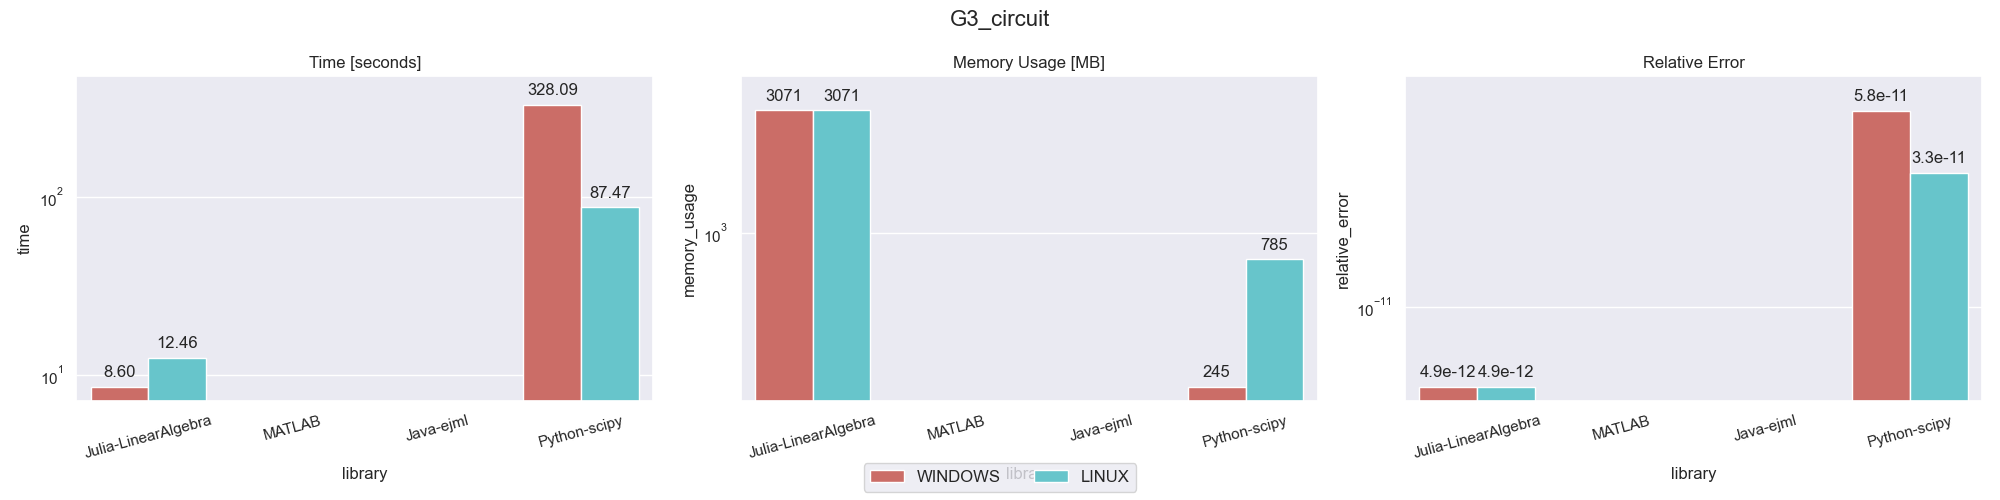
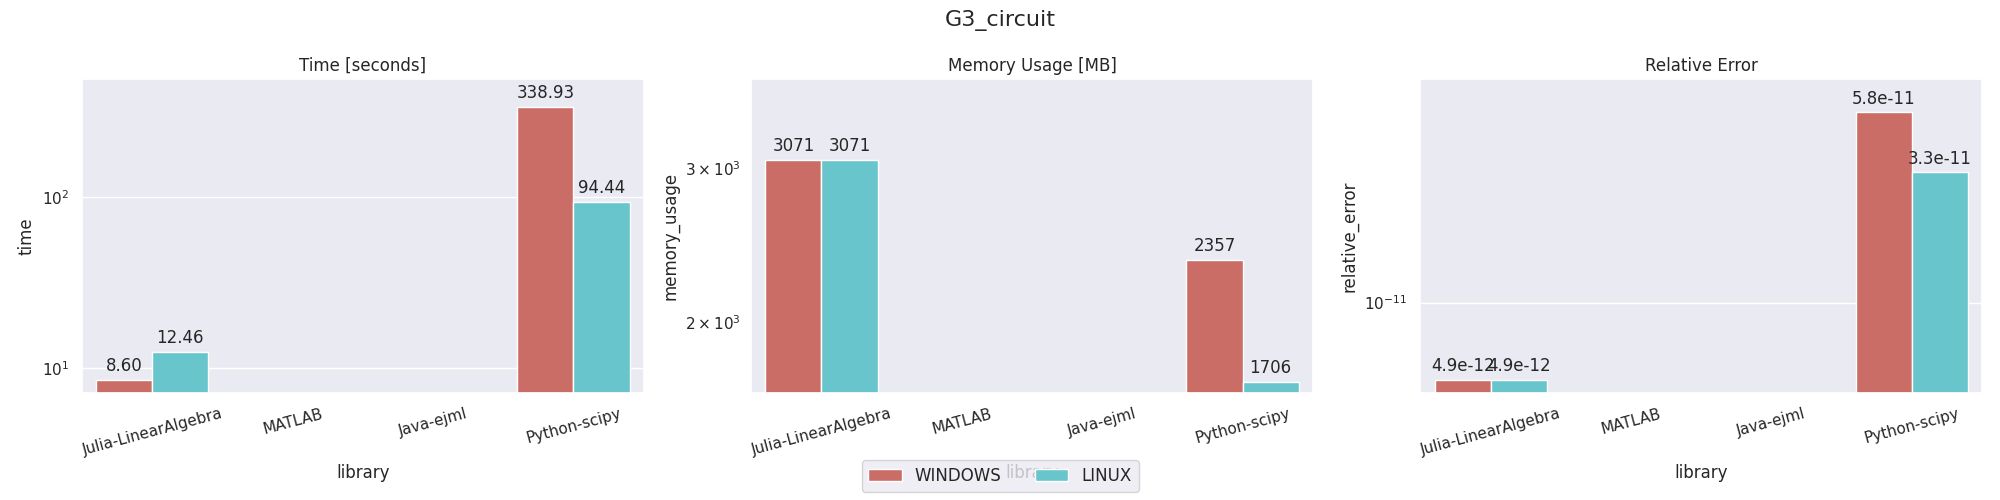
Update plots and reports, update results in report

diff --git a/report/report.tex b/report/report.tex
@@ -382,23 +382,23 @@ introdotti miglioramenti sulle altre matrici
 \textbf{relative\_error} &
 \textbf{platform} &
 \textbf{library\_version} \\ \midrule
-ex15.mat            & 6867   & 98671   & 0.05   & 4.19
+ex15.mat            & 6867   & 98671   & 0.05   & 4
 & 8.21380E-07 & LINUX   & 9.14.0.2254940 (R2023a) Update 2 \\
-ex15.mat            & 6867   & 98671   & 0.06   & 4.15
+ex15.mat            & 6867   & 98671   & 0.06   & 4
 & 8.21380E-07 & WINDOWS & 9.13.0.2193358 (R2022b) Update 5 \\
-shallow\_water1.mat & 81920  & 327680  & 1.72   & 368.87
+shallow\_water1.mat & 81920  & 327680  & 1.72   & 368
 & 3.07689E-16 & LINUX   & 9.14.0.2254940 (R2023a) Update 2 \\
-shallow\_water1.mat & 81920  & 327680  & 2.09   & 368.93
+shallow\_water1.mat & 81920  & 327680  & 2.09   & 368
 & 3.07689E-16 & WINDOWS & 9.13.0.2193358 (R2022b) Update 5 \\
-cfd1.mat            & 70656  & 1825580 & 3.86   & 1286.22
+cfd1.mat            & 70656  & 1825580 & 3.86   & 1286
 & 6.34538E-13 & LINUX   & 9.14.0.2254940 (R2023a) Update 2 \\
-cfd1.mat            & 70656  & 1825580 & 6.54   & 1302.86
+cfd1.mat            & 70656  & 1825580 & 6.54   & 1302
 & 6.34538E-13 & WINDOWS & 9.13.0.2193358 (R2022b) Update 5 \\
-cfd2.mat            & 123440 & 3085406 & 6.55   & 18446744
+cfd2.mat            & 123440 & 3085406 & 6.55   & 18446744071912
 & 7.98365E-13 & LINUX   & 9.14.0.2254940 (R2023a) Update 2 \\
-cfd2.mat            & 123440 & 3085406 & 13.07  & 2503.08
+cfd2.mat            & 123440 & 3085406 & 13.07  & 2503
 & 7.98365E-13 & WINDOWS & 9.13.0.2193358 (R2022b) Update 5 \\
-apache2.mat         & 715176 & 4817870 & 646.19 & 27490.58
+apache2.mat         & 715176 & 4817870 & 646.19 & 27490
 & 3.65750E-11 & WINDOWS & 9.13.0.2193358 (R2022b) Update 5 \\ \bottomrule
 \end{tabular}%
 }
@@ -428,21 +428,21 @@ non è quindi in grado di gestire matrici con più di $2^{31}$ elementi.
 \textbf{relative\_error} &
 \textbf{platform} &
 \textbf{library\_version} \\ \midrule
-ex15.mat            & 6867   & 98671   & 0.01   & 5.12
+ex15.mat            & 6867   & 98671   & 0.01   & 5
 & 8.00799E-07 & LINUX   & 0.43 \\
-ex15.mat            & 6867   & 98671   & 0.01   & 5.01
+ex15.mat            & 6867   & 98671   & 0.01   & 5
 & 8.00799E-07 & WINDOWS & 0.43 \\
-shallow\_water1.mat & 81920  & 327680  & 10.42  & 290.06
+shallow\_water1.mat & 81920  & 327680  & 10.42  & 290
 & 3.55914E-16 & LINUX   & 0.43 \\
-shallow\_water1.mat & 81920  & 327680  & 8.96   & 291.21
+shallow\_water1.mat & 81920  & 327680  & 8.96   & 291
 & 3.55914E-16 & WINDOWS & 0.43 \\
-cfd1.mat            & 70656  & 1825580 & 76.96  & 992.04
+cfd1.mat            & 70656  & 1825580 & 76.96  & 992
 & 4.52430E-11 & LINUX   & 0.43 \\
-cfd1.mat            & 70656  & 1825580 & 119.12 & 991.02
+cfd1.mat            & 70656  & 1825580 & 119.12 & 991
 & 4.52430E-11 & WINDOWS & 0.43 \\
-cfd2.mat            & 123440 & 3085406 & 121.92 & 1927.05
+cfd2.mat            & 123440 & 3085406 & 121.92 & 1927
 & 2.19321E-11 & LINUX   & 0.43 \\
-cfd2.mat            & 123440 & 3085406 & 121.14 & 1928.13
+cfd2.mat            & 123440 & 3085406 & 121.14 & 1928
 & 2.19321E-11 & WINDOWS & 0.43 \\ \bottomrule
 \end{tabular}%
 }
@@ -478,37 +478,37 @@ disposizione, questo però non è stato osservato in ambiente Windows.
     \textbf{relative\_error} &
     \multicolumn{1}{c}{\textbf{platform}} &
     \multicolumn{1}{c}{\textbf{library\_version}} \\ \hline
-  ex15.mat            & 6867    & 98671     & 0.27   & 500.00
+  ex15.mat            & 6867    & 98671     & 0.27   & 500
   & 3.49945E-07 & LINUX   & 1.8.1  \\
-  ex15.mat            & 6867    & 98671     & 0.04   & 87.00
+  ex15.mat            & 6867    & 98671     & 0.04   & 87
   & 3.97177E-07 & WINDOWS & 1.10.1 \\
-  shallow\_water1.mat & 81920   & 327680    & 10.18  & 501.00
+  shallow\_water1.mat & 81920   & 327680    & 10.18  & 501
   & 3.27712E-16 & LINUX   & 1.8.1  \\
-  shallow\_water1.mat & 81920   & 327680    & 0.74   & 130.00
+  shallow\_water1.mat & 81920   & 327680    & 0.74   & 130
   & 3.75545E-16 & WINDOWS & 1.10.1 \\
-  cfd1.mat            & 70656   & 1825580   & 2.93   & 686.00
+  cfd1.mat            & 70656   & 1825580   & 2.93   & 686
   & 1.11282E-11 & LINUX   & 1.8.1  \\
-  cfd1.mat            & 70656   & 1825580   & 38.41  & 485.00
+  cfd1.mat            & 70656   & 1825580   & 38.41  & 485
   & 2.47670E-11 & WINDOWS & 1.10.1 \\
-  cfd2.mat            & 123440  & 3085406   & 14.71  & 853.00
+  cfd2.mat            & 123440  & 3085406   & 14.71  & 853
   & 1.65638E-11 & LINUX   & 1.8.1  \\
-  cfd2.mat            & 123440  & 3085406   & 123.30 & 865.00
+  cfd2.mat            & 123440  & 3085406   & 123.30 & 865
   & 3.41646E-11 & WINDOWS & 1.10.1 \\
-  parabolic\_fem.mat  & 525825  & 3674625   & 23.58  & 975.00
+  parabolic\_fem.mat  & 525825  & 3674625   & 23.58  & 975
   & 1.91515E-11 & LINUX   & 1.8.1  \\
-  parabolic\_fem.mat  & 525825  & 3674625   & 18.54  & 582.00
+  parabolic\_fem.mat  & 525825  & 3674625   & 18.54  & 582
   & 2.35390E-11 & WINDOWS & 1.10.1 \\
-  apache2.mat         & 715176  & 4817870   & 65.47  & 1889.00
+  apache2.mat         & 715176  & 4817870   & 65.47  & 1889
   & 1.70028E-10 & LINUX   & 1.8.1  \\
-  apache2.mat         & 715176  & 4817870   & 262.48 & 1989.00
+  apache2.mat         & 715176  & 4817870   & 262.48 & 1989
   & 2.24076E-10 & WINDOWS & 1.10.1 \\
-  G3\_circuit.mat     & 1585478 & 7660826   & 94.44  & 1706.00
+  G3\_circuit.mat     & 1585478 & 7660826   & 94.44  & 1706
   & 3.34037E-11 & LINUX   & 1.8.1  \\
-  G3\_circuit.mat     & 1585478 & 7660826   & 338.93 & 2357.00
+  G3\_circuit.mat     & 1585478 & 7660826   & 338.93 & 2357
   & 5.82245E-11 & WINDOWS & 1.10.1 \\
-  StocF-1465.mat      & 1465137 & 21005389  & 357.17 & 10633.00
+  StocF-1465.mat      & 1465137 & 21005389  & 357.17 & 10633
   & 1.89743E-08 & LINUX   & 1.8.1  \\
-  Flan\_1565.mat      & 1564794 & 114165372 & 505.37 & 15889.00
+  Flan\_1565.mat      & 1564794 & 114165372 & 505.37 & 15889
   & 5.33502E-10 & LINUX   & 1.8.1  \\ \hline
   \end{tabular}%
   }
@@ -535,37 +535,37 @@ In ambiente Windows è stato inoltre possibile fattorizzare tutte le matrici.
 \textbf{relative\_error} &
 \textbf{platform} &
 \textbf{library\_version} \\ \midrule
-ex15.mat            & 6867    & 98671     & 0.03   & 11.48
+ex15.mat            & 6867    & 98671     & 0.03   & 11
 & 5.81497E-07 & LINUX   & 1.9.0 \\
-ex15.mat            & 6867    & 98671     & 0.02   & 11.48
+ex15.mat            & 6867    & 98671     & 0.02   & 11
 & 5.81497E-07 & WINDOWS & 1.9.0 \\
-shallow\_water1.mat & 81920   & 327680    & 0.55   & 75.02
+shallow\_water1.mat & 81920   & 327680    & 0.55   & 75
 & 2.01653E-16 & LINUX   & 1.9.0 \\
-shallow\_water1.mat & 81920   & 327680    & 0.15   & 75.02
+shallow\_water1.mat & 81920   & 327680    & 0.15   & 75
 & 2.01653E-16 & WINDOWS & 1.9.0 \\
-cfd1.mat            & 70656   & 1825580   & 1.49   & 540.85
+cfd1.mat            & 70656   & 1825580   & 1.49   & 540
 & 7.06626E-14 & LINUX   & 1.9.0 \\
-cfd1.mat            & 70656   & 1825580   & 1.59   & 540.36
+cfd1.mat            & 70656   & 1825580   & 1.59   & 540
 & 6.17525E-14 & WINDOWS & 1.9.0 \\
-cfd2.mat            & 123440  & 3085406   & 2.66   & 1019.36
+cfd2.mat            & 123440  & 3085406   & 2.66   & 1019
 & 3.07576E-13 & LINUX   & 1.9.0 \\
-cfd2.mat            & 123440  & 3085406   & 2.34   & 1019.36
+cfd2.mat            & 123440  & 3085406   & 2.34   & 1019
 & 2.74264E-13 & WINDOWS & 1.9.0 \\
-parabolic\_fem.mat  & 525825  & 3674625   & 3.40   & 771.37
+parabolic\_fem.mat  & 525825  & 3674625   & 3.40   & 771
 & 7.12844E-13 & LINUX   & 1.9.0 \\
-parabolic\_fem.mat  & 525825  & 3674625   & 2.05   & 771.37
+parabolic\_fem.mat  & 525825  & 3674625   & 2.05   & 771
 & 7.10019E-13 & WINDOWS & 1.9.0 \\
-apache2.mat         & 715176  & 4817870   & 7.99   & 2346.68
+apache2.mat         & 715176  & 4817870   & 7.99   & 2346
 & 5.60339E-11 & LINUX   & 1.9.0 \\
-apache2.mat         & 715176  & 4817870   & 6.52   & 2346.68
+apache2.mat         & 715176  & 4817870   & 6.52   & 2346
 & 5.60359E-11 & WINDOWS & 1.9.0 \\
-G3\_circuit.mat     & 1585478 & 7660826   & 12.46  & 3070.81
+G3\_circuit.mat     & 1585478 & 7660826   & 12.46  & 3070
 & 4.88705E-12 & LINUX   & 1.9.0 \\
-G3\_circuit.mat     & 1585478 & 7660826   & 8.60   & 3070.81
+G3\_circuit.mat     & 1585478 & 7660826   & 8.60   & 3070
 & 4.88457E-12 & WINDOWS & 1.9.0 \\
-StocF-1465.mat      & 1465137 & 21005389  & 483.85 & 39483.77
+StocF-1465.mat      & 1465137 & 21005389  & 483.85 & 39483
 & 2.38859E-10 & WINDOWS & 1.9.0 \\
-Flan\_1565.mat      & 1564794 & 114165372 & 538.93 & 43646.98
+Flan\_1565.mat      & 1564794 & 114165372 & 538.93 & 43646
 & 1.67777E-12 & WINDOWS & 1.9.0 \\ \bottomrule
 \end{tabular}%
 }
@@ -606,8 +606,8 @@ I risultati sulla matrice cfd1 riporati in Figura~\ref{fig:cfd1} mostrano come i
 risultati più precisi siano ottenuti da Julia, restando in linea con i risultati
 ottenuti con la matrice shallow\_water1. In questo caso però la quantità di
 memoria occupata da Julia è maggiore di quella di Python, che anche nella
-versione Linux ottiene risultati migliori, pur occupando quattro volte la
-memoria che occupa nella versione Windows.
+versione Linux ottiene risultati migliori, pur occupando più memoria che nella
+versione Windows.
 \begin{figure}[ht]
 \includegraphics[width=\textwidth]{cfd1}
 \caption{Comparazione dei risultati per la matrice cfd1.}
@@ -629,7 +629,7 @@ memoria.
 La Figura~\ref{fig:parabolic_fem} mostra che la matrice è stata fattorizzata
 solo negli ambienti Julia e Python su entrambi i sistemi operativi.
 In particolare i risultati ottentuti da Julia sono più precisi e prodotti più
-velocemente, ma la memoria occupata da Python è minore, specialmente su Windows.
+velocemente, ma la memoria occupata da Python in Windows è minore.
 \begin{figure}[ht]
 \includegraphics[width=\textwidth]{parabolic_fem}
 \caption{Comparazione dei risultati per la matrice parabolic\_fem.}
@@ -650,7 +650,7 @@ valori di memoria occupata.
 Osservando i risultati in Figura~\ref{fig:G3_circuit} si può vedere che la
 matrice G3\_circuit è stata fattorizzata solo in Python e Julia, ottenendo
 risultati più precisi e veloci in Julia, ma occupando più memoria che in Python,
-che, specialmente in Windows, alloca molti meno byte, ottenendo però risultati
+che, specialmente in Linux, alloca molti meno byte, ottenendo però risultati
 meno precisi.
 \begin{figure}[ht]
 \includegraphics[width=\textwidth]{G3_circuit}
